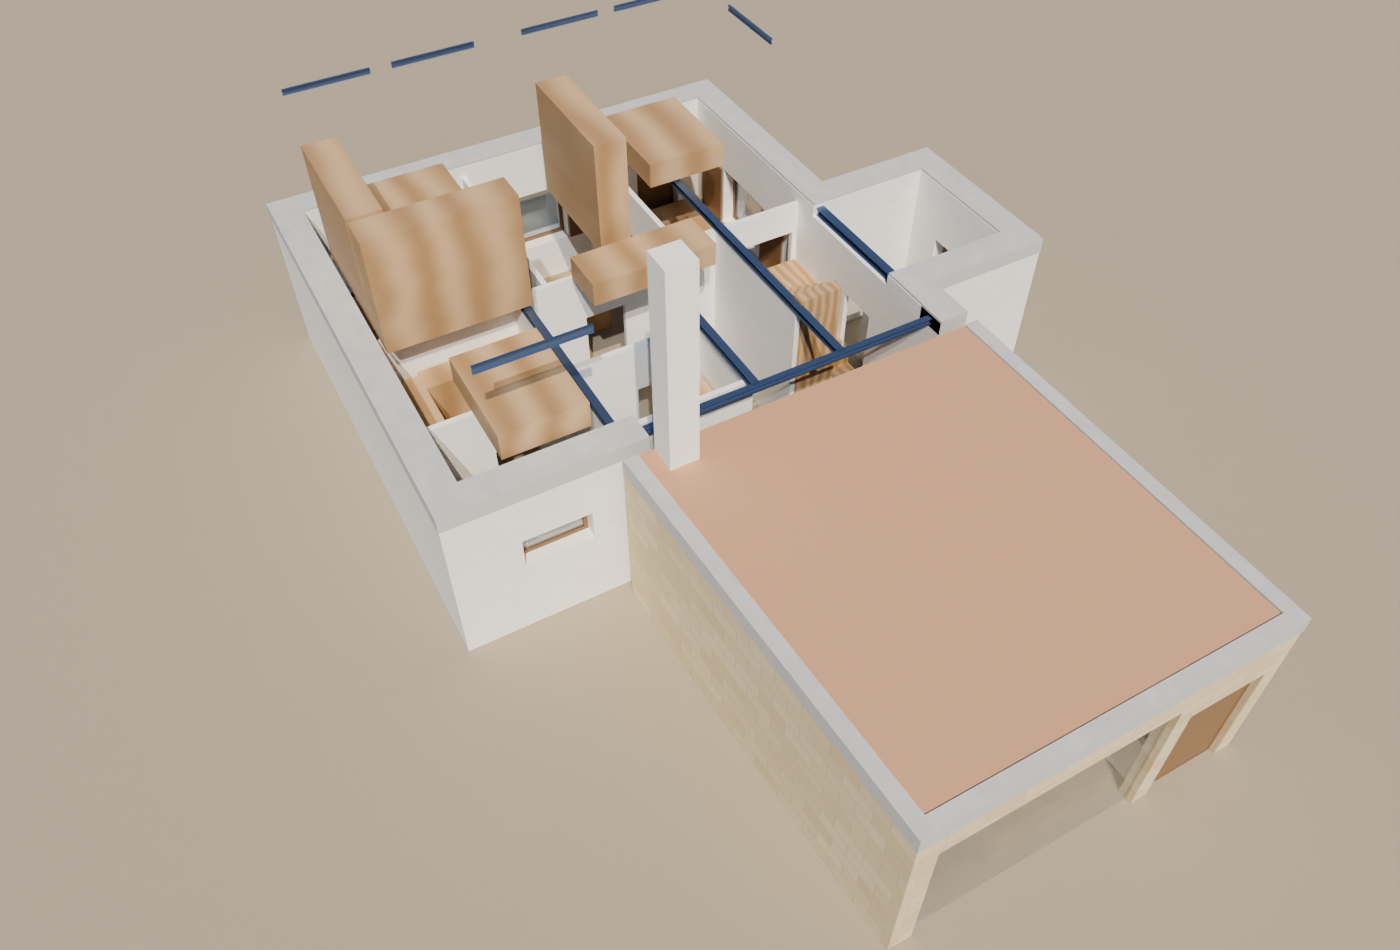
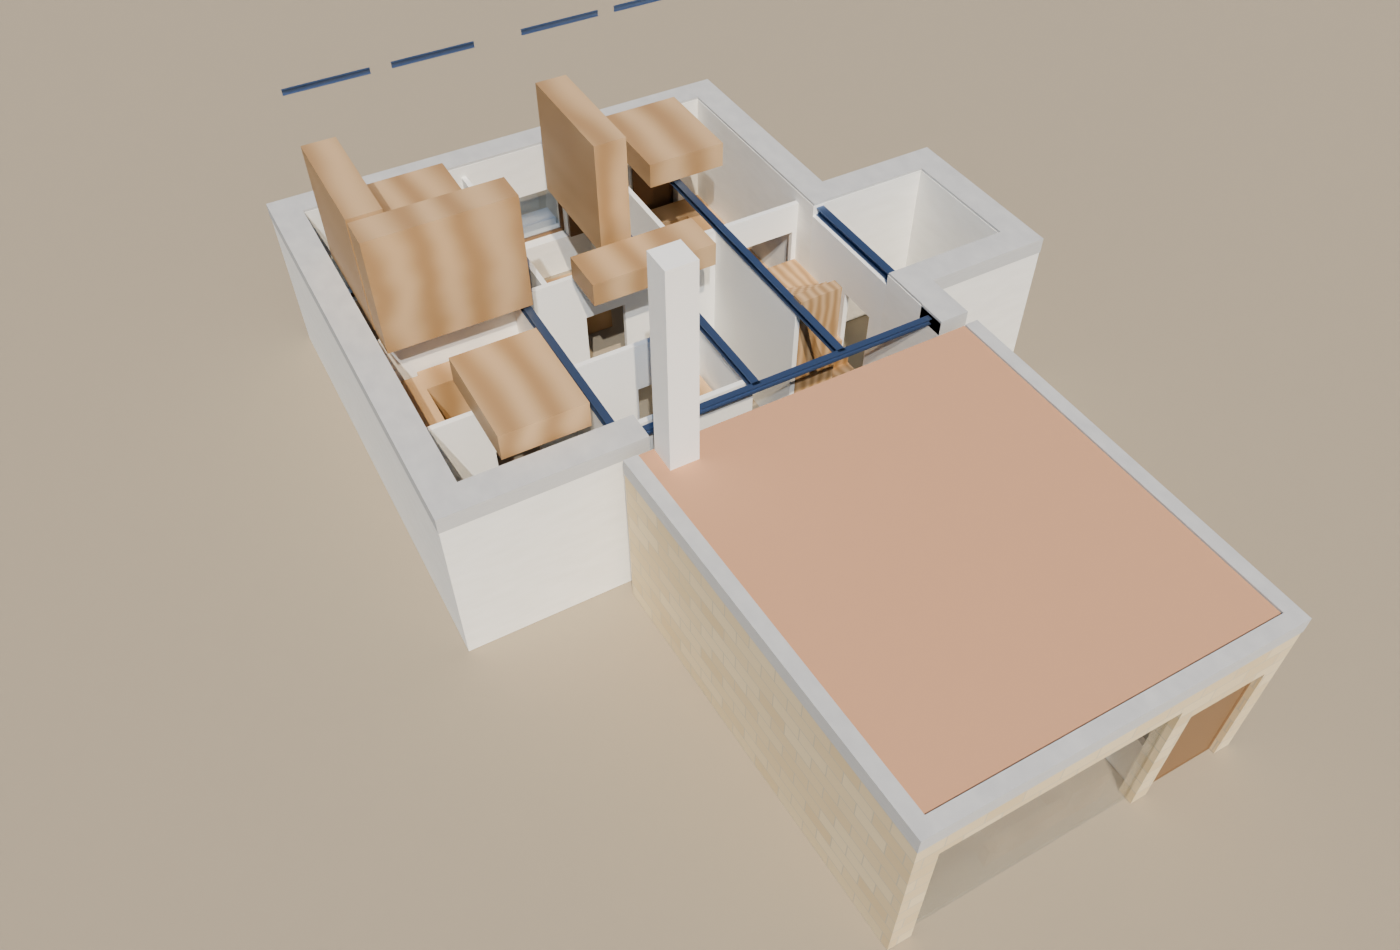
Render: vistas exteriores restauradas; sin dinteles flotantes en la planta abierta
Claude-Session: https://claude.ai/code/session_01GrFzVPJDRJqirwnmNdffa5

diff --git a/cortijo/render_blender.py b/cortijo/render_blender.py
@@ -73,5 +73,7 @@ def shoot(name, loc, target, hide=(), exposure=-0.9, world=0.06):
     co.rotation_euler = Vector(d).to_track_quat("-Z", "Y").to_euler()
     sc.render.filepath = OUT + name + ".png"; bpy.ops.render.render(write_still=True); print("render", name)
 
-shoot("planta_baja_abierta", (-2, -4, 16), (5, 8.5, 0.5), hide=("muros_PA", "forjado_PB_PA", "forjado_salon", "forjado_cubierta", "parapeto", "lucernario", "tabiques_PA", "cristal_PA", "acero_vigas_cubierta", "zuncho_cubierta", "paneles", "acero_pilares", "carpinteria_PA", "vidrios_PA", "puertas_PA", "vidrios_terraza", "carpinteria_terraza", "cristal_PA"))
+shoot("exterior_norte", (-6, -14, 7), (5, 7, 2.5))
+shoot("exterior_sur", (18, 24, 9), (5, 9, 2.5))
+shoot("planta_baja_abierta", (-2, -4, 16), (5, 8.5, 0.5), hide=("muros_PA", "forjado_PB_PA", "forjado_salon", "forjado_cubierta", "parapeto", "lucernario", "tabiques_PA", "cristal_PA", "acero_vigas_cubierta", "zuncho_cubierta", "paneles", "acero_pilares", "carpinteria_PA", "vidrios_PA", "puertas_PA", "vidrios_terraza", "carpinteria_terraza", "cristal_PA", "acero_dinteles"))
 shoot("salon_interior", (5.2, 1.2, 1.6), (4.2, 7.5, 1.3), hide=("muros_PA", "forjado_cubierta", "parapeto", "lucernario", "tabiques_PA", "cristal_PA", "acero_vigas_cubierta", "zuncho_cubierta", "paneles"), exposure=0.9, world=0.5)
